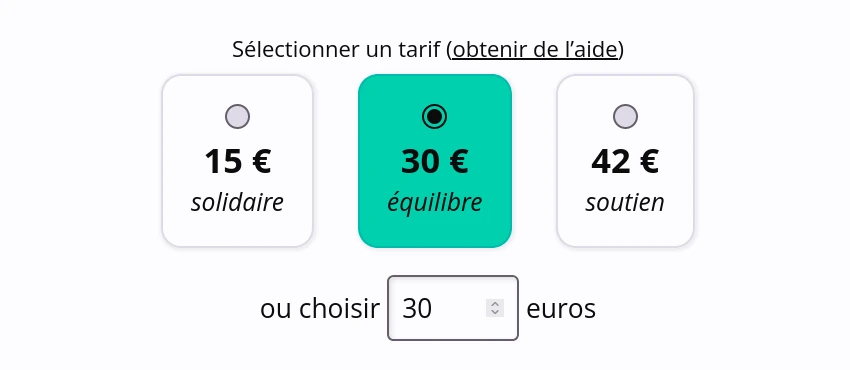
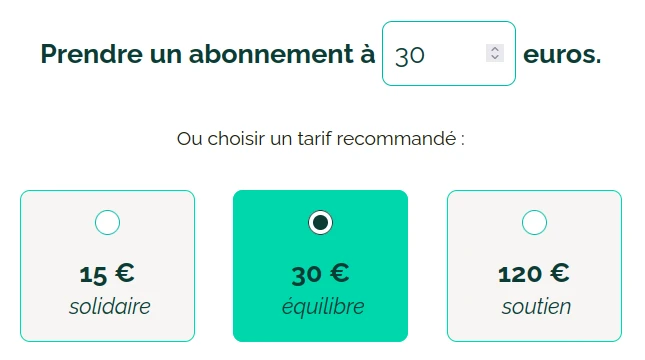
Met à jour l’article "Flus passe au prix libre"

diff --git a/articles/flus-passe-au-prix-libre.md b/articles/flus-passe-au-prix-libre.md
@@ -6,8 +6,8 @@ tags: featured
 ---
 
 Bien que développé sur la base d’un logiciel libre, Flus est un service de veille en ligne payant.
-Depuis le début, le tarif est simple : 3 € par mois, ou 30 € par an.
-À cela s’ajoute une cagnotte qui peut être alimentée par les personnes le souhaitant, et utilisée par celles qui ne veulent ou ne peuvent pas payer.
+Au démarrage, le tarif était simple : 3 € par mois, ou 30 € par an.
+À cela s’ajoutait une cagnotte qui pouvait être alimentée par les personnes le souhaitant, et utilisée par celles qui ne voulaient ou ne pouvaient pas payer.
 
 **Aujourd’hui, toutefois, cela évolue : Flus passe au prix libre !**
 
@@ -19,8 +19,8 @@ Cela vous permet de définir le prix qui vous paraît le plus juste au regard de
 Vous vous dites peut-être qu’il n’est pas évident de définir _vous-même_ un prix correct ?
 Pas d’inquiétude, je vous propose trois tarifs « par défaut » qui vous permettront de le faire sereinement.
 
-<div class="screenshot">
-    <img class="illustration screenshot__image" src="images/flus-prix-libre.webp" alt="Une capture d’écran du formulaire de renouvellement qui montre trois tarifs (détaillés ci-dessous) et un champ permettant de définir le montant soi-même.">
+<div class="panel panel--rounded panel--grey">
+    <img class="illustration" src="images/flus-prix-libre.webp" alt="Une capture d’écran du formulaire de renouvellement qui montre trois tarifs (détaillés ci-dessous) et un champ permettant de définir le montant soi-même.">
 </div>
 
 **Le tarif « solidaire » à 15 € par an** est destiné à celles et ceux qui ne sont pas prêts à dépenser plus, mais qui souhaitent tout de même soutenir le projet.
